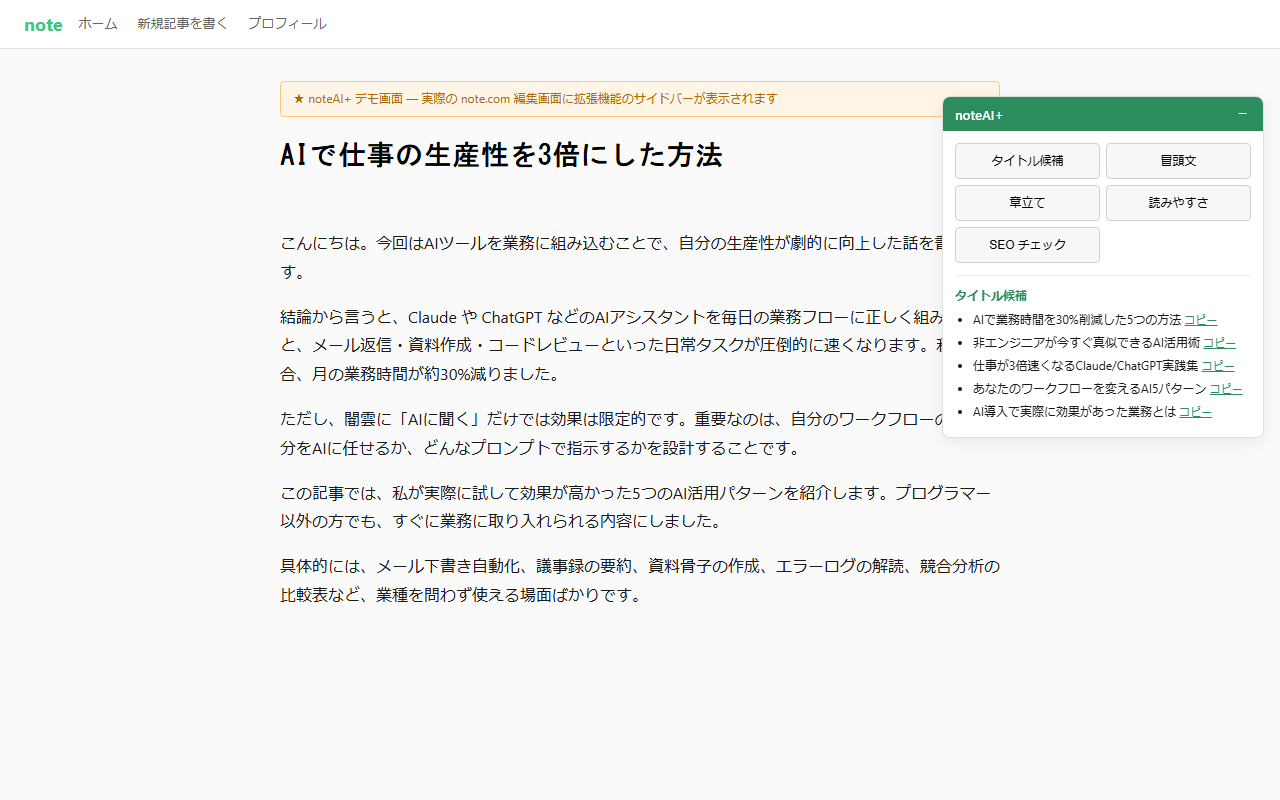
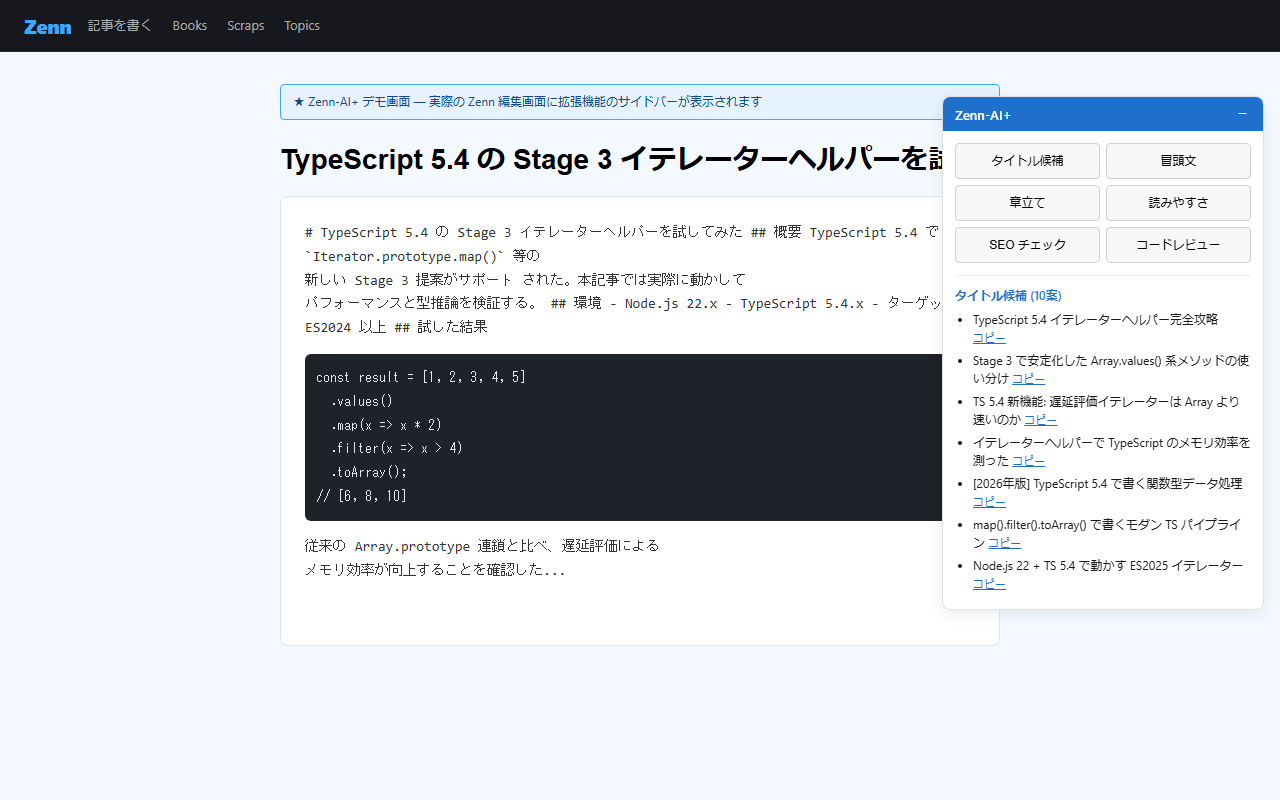
feat: Add 5 Zenn-AI+ screenshots to LP
- Generated via scripts/screenshot.mjs (playwright, 1280x800)
- Screenshots include code-review (Zenn limited feature)
- Updated LP index.html with screenshots section

diff --git a/index.html b/index.html
@@ -84,6 +84,17 @@
       color: var(--primary);
     }
     .feature.highlight { border-color: var(--primary); border-width: 2px; }
+    .screenshots {
+      display: grid;
+      grid-template-columns: repeat(auto-fit, minmax(320px, 1fr));
+      gap: 16px;
+    }
+    .screenshots img {
+      width: 100%;
+      border-radius: 8px;
+      border: 1px solid var(--border);
+      background: white;
+    }
     .feature .tag {
       display: inline-block;
       background: var(--primary);
@@ -180,6 +191,17 @@
           <h3>技術 SEO チェック</h3>
           <p>狙うキーワード（ライブラリ名・言語名等）の出現密度を確認。Zenn 内検索と外部流入の両方を意識。</p>
         </div>
+      </div>
+    </section>
+
+    <section>
+      <h2>スクリーンショット</h2>
+      <div class="screenshots">
+        <img src="screenshot-1-titles.png" alt="技術タイトル候補 10案画面" />
+        <img src="screenshot-2-opening.png" alt="冒頭文 (TL;DR/問題提起/コード先出し) 画面" />
+        <img src="screenshot-3-outline.png" alt="技術記事構造 章立て画面" />
+        <img src="screenshot-4-code-review.png" alt="コードレビュー画面 (Zenn 限定)" />
+        <img src="screenshot-5-readability.png" alt="読みやすさ評価画面" />
       </div>
     </section>
 
